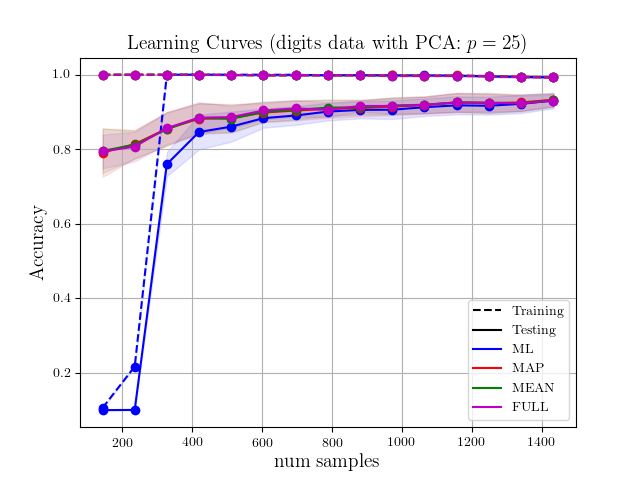
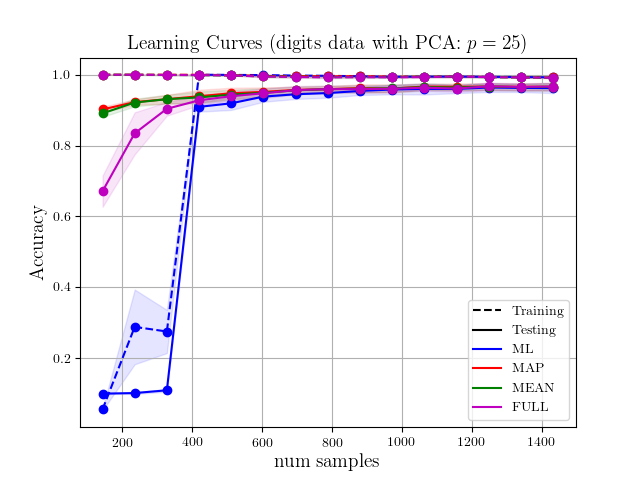
Shuffled digits data.

Changed region(s): [[0.0625, 0.125, 0.9062, 0.875], [0.0625, 0.75, 0.125, 0.7812]]

diff --git a/test.py b/test.py
@@ -2,7 +2,6 @@ import unittest
 import numpy as np
 
 from sklearn import datasets
-from sklearn.metrics import log_loss
 from sklearn.preprocessing import StandardScaler
 from sklearn.decomposition import PCA
 from sklearn.model_selection import learning_curve
@@ -26,7 +25,7 @@ class testDA_fits(unittest.TestCase):
 
         DA = DiscriminantAnalysis(do_logging=True)
         DA.fit(X, y, method=MAXIMUM_LIKELIHOOD)
-        P = DA.predict_proba(X)
+        P = DA.predict_proba(X, ret_array=False)
         assert np.allclose(np.sum(P[c] for c in C), 1.0)
         return
 
@@ -39,7 +38,7 @@ class testDA_fits(unittest.TestCase):
 
         DA = DiscriminantAnalysis(do_logging=True)
         DA.fit(X, y, method=BAYES_MAP)
-        P = DA.predict_proba(X)
+        P = DA.predict_proba(X, ret_array=False)
         assert np.allclose(np.sum(P[c] for c in C), 1.0)
         return
 
@@ -51,8 +50,8 @@ class testDA_fits(unittest.TestCase):
         y = np.random.choice(C, size=N)
 
         DA = DiscriminantAnalysis(do_logging=True)
-        DA.fit(X, y, method=BAYES_MEAN, do_logging=True)
-        P = DA.predict_proba(X)
+        DA.fit(X, y, method=BAYES_MEAN)
+        P = DA.predict_proba(X, ret_array=False)
         assert np.allclose(np.sum(P[c] for c in C), 1.0)
         return
 
@@ -65,7 +64,8 @@ class testDA_fits(unittest.TestCase):
 
         DA = DiscriminantAnalysis(do_logging=True)
         DA.fit(X, y, method=BAYES_FULL)
-        DA.predict_proba(X)
+        P = DA.predict_proba(X, ret_array=False)
+        assert np.allclose(np.sum(P[c] for c in C), 1.0)
         return
 
 
@@ -155,7 +155,7 @@ class testDA_visualize(unittest.TestCase):
         return
 
 
-class testDA_ll(unittest.TestCase):
+class testDA_learning_curves(unittest.TestCase):
     def plot_learning_curve(self, estimator, X, y, ax, train_sizes,
                             color="b", scoring="neg_log_loss",
                             ylabel=None):
@@ -259,7 +259,11 @@ class testDA_ll(unittest.TestCase):
     def test003(self):
         p = 25
 
+        # Load, then shuffle the dataset
         X, y = datasets.load_digits(10, True)
+        Xy = np.random.permutation(np.hstack((X, y[:, None])))
+        X, y = Xy[:, :-1], Xy[:, -1]
+
         ss = StandardScaler()
         X = ss.fit_transform(X)
         # PCA is not the best projection for this algorithm
